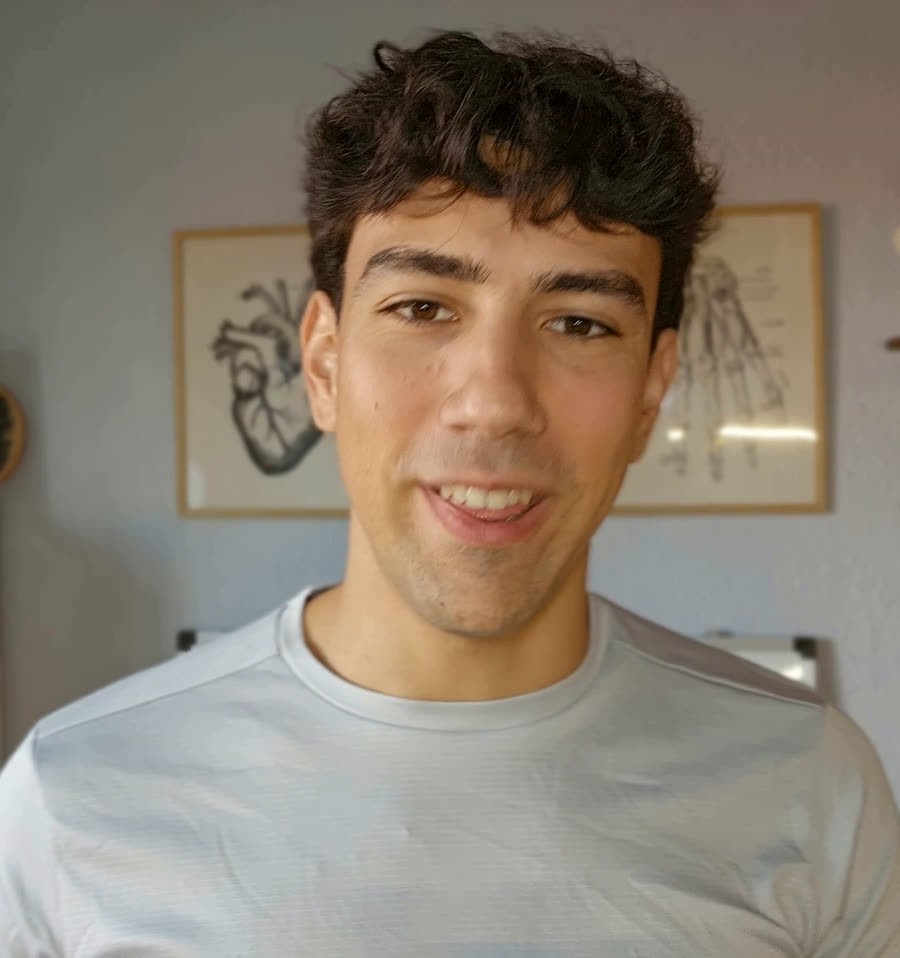
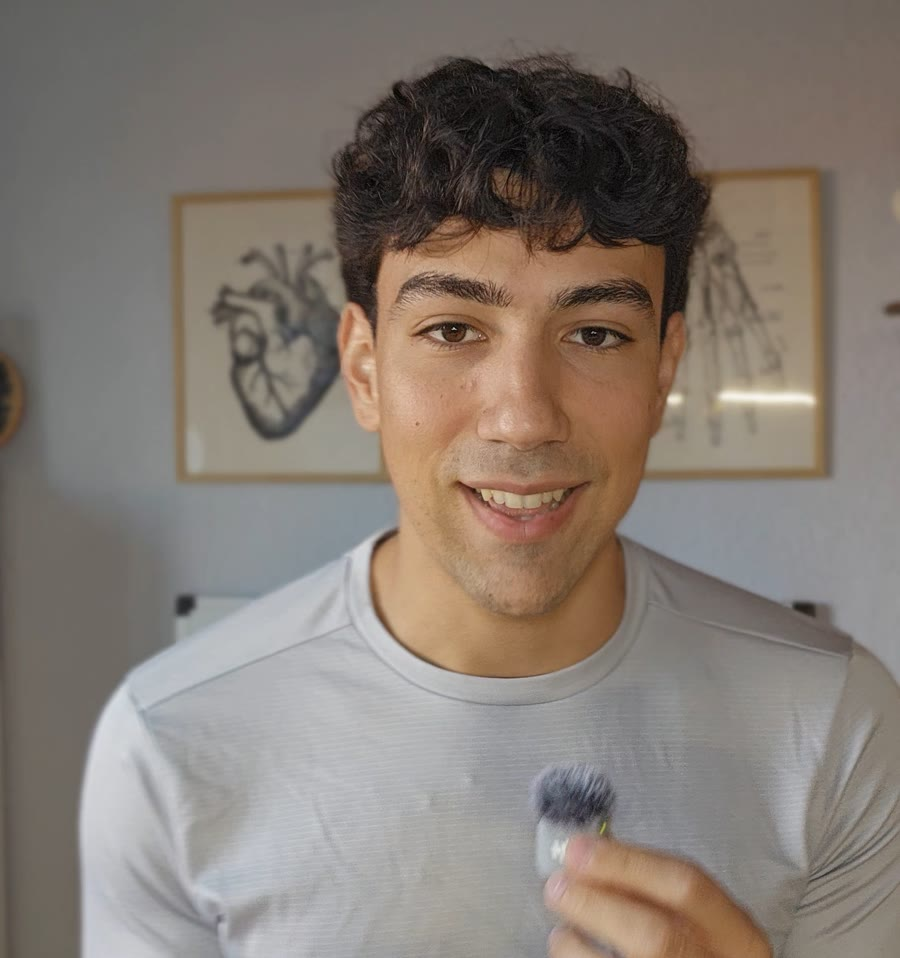
Cambia la foto y ajusta el texto de presentación

diff --git a/index.html b/index.html
@@ -3,9 +3,9 @@
 <head>
 <meta charset="utf-8">
 <meta name="viewport" content="width=device-width, initial-scale=1, viewport-fit=cover">
-<meta name="description" content="Entrenador y estudiante de Medicina. Qué pasa en tu cuerpo cuando levantas peso, corres o duermes mal, sin humo y con los datos en la mano.">
+<meta name="description" content="Entrenador y estudiante de Medicina. Qué ocurre en tu cuerpo cuando levantas peso, corres o duermes mal, sin humo y con los datos en la mano.">
 <meta property="og:title" content="Miguel Paleteiro">
-<meta property="og:description" content="Entrenador y estudiante de Medicina. Qué pasa en tu cuerpo cuando levantas peso, corres o duermes mal, sin humo y con los datos en la mano.">
+<meta property="og:description" content="Entrenador y estudiante de Medicina. Qué ocurre en tu cuerpo cuando levantas peso, corres o duermes mal, sin humo y con los datos en la mano.">
 <meta property="og:type" content="website">
 <meta property="og:locale" content="es_ES">
 <meta property="og:url" content="https://miguelpaleteiro.github.io/">
@@ -195,7 +195,7 @@ footer p { max-width: 52em; }
     <div class="hero">
       <div class="text">
         <h1>Entiende <em>por qué</em> entrenas así</h1>
-        <p class="lede">Soy Miguel, entrenador y estudiante de Medicina. Explico qué pasa en tu cuerpo cuando levantas peso, corres o duermes mal, sin humo y con los datos en la mano.</p>
+        <p class="lede">Soy Miguel, entrenador y estudiante de Medicina. Explico qué ocurre en tu cuerpo cuando levantas peso, corres o duermes mal, sin humo y con los datos en la mano.</p>
         <div class="actions">
           <a class="btn solid" href="https://www.instagram.com/miguelpaleteiro/">Seguir en Instagram</a>
           <a class="btn" href="#juego">Jugar a mito o verdad</a>
@@ -204,8 +204,8 @@ footer p { max-width: 52em; }
       <figure class="frame" style="margin:0">
         <div class="fig">
           <img src="miguel.jpg" width="900" height="958" alt="Miguel hablando a cámara delante de dos láminas anatómicas enmarcadas, una de un corazón y otra de una mano.">
-          <span class="dot" style="left:27%;top:36%" aria-hidden="true">1</span>
-          <span class="dot" style="left:30%;top:84%" aria-hidden="true">2</span>
+          <span class="dot" style="left:31%;top:36%" aria-hidden="true">1</span>
+          <span class="dot" style="left:26%;top:74%" aria-hidden="true">2</span>
           <span class="dot" style="left:84%;top:32%" aria-hidden="true">3</span>
         </div>
         <ol class="legend">
